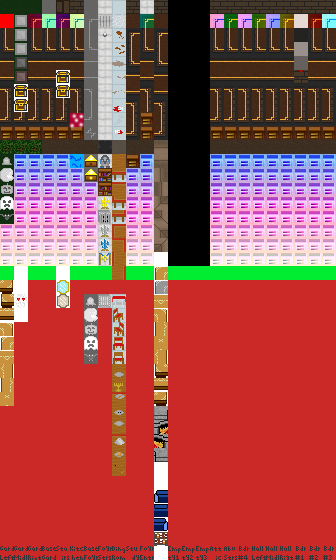
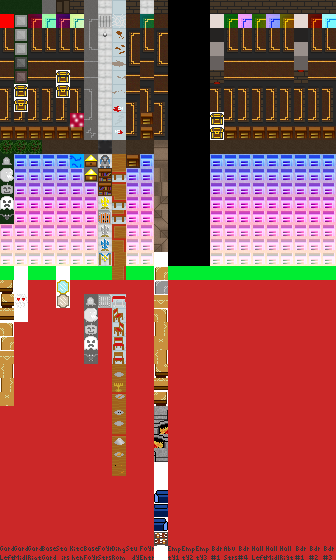
Moved Caspar's puzzle to attic. Create a more complex path. Placed treasure chest art in room.

Changed region(s): [[0.625, 0.0, 0.6845, 0.1518], [0.625, 0.1821, 0.6845, 0.2732], [0.625, 0.9714, 0.6548, 1.0]]

diff --git a/js/World.js b/js/World.js
@@ -108,9 +108,9 @@ var levelGardenRight =
 ];
 
 var levelAttic =
-	[
-		10,10,10,10,10,10,10,0,10,10,10,10,10,10,10,10,10,1,2,1,2,1,5,0,0,1,2,1,2,1,2,10,10,2,1,2,1,2,0,0,0,2,1,2,1,2,1,10,10,1,2,1,2,1,2,1,2,1,2,1,2,1,2,10,10,2,1,2,1,2,1,2,1,2,1,2,1,2,1,10,10,1,2,1,2,1,2,1,2,1,2,1,2,1,2,10,10,2,1,2,1,2,1,2,1,2,1,2,0,0,0,10,10,1,2,1,2,1,2,1,2,1,2,1,0,0,0,10,10,2,1,2,1,2,1,2,1,2,1,2,0,0,9,10,10,10,10,10,10,10,10,10,10,10,10,10,10,10,10,10
-	];
+[
+10, 10, 10, 10, 10, 10, 10, 10, 10, 10, 10, 10, 10, 10, 10, 10, 10, 1, 2, 1, 2, 1, 2, 1, 2, 1, 2, 1, 2, 0, 9, 10, 10, 2, 1, 2, 1, 2, 1, 2, 1, 2, 1, 2, 1, 0, 0, 10, 10, 1, 2, 1, 2, 1, 2, 1, 2, 1, 2, 1, 2, 1, 2, 10, 10, 2, 1, 2, 1, 2, 1, 2, 1, 2, 1, 2, 1, 2, 1, 10, 10, 1, 2, 1, 2, 1, 2, 1, 2, 1, 2, 1, 2, 1, 2, 10, 10, 2, 1, 2, 1, 2, 0, 0, 0, 2, 1, 2, 1, 2, 1, 10, 10, 1, 2, 1, 2, 1, 0, 0, 0, 1, 2, 1, 2, 1, 2, 10, 10, 2, 1, 2, 1, 2, 5, 0, 0, 2, 1, 2, 1, 2, 1, 10, 10, 10, 10, 10, 10, 10, 10, 0, 10, 10, 10, 10, 10, 10, 10, 10
+];
 
 var levelBedroomOne =
 	[ // Bed, Rug, Nightstand
@@ -232,7 +232,7 @@ var roomLayout =
 				//12        13          14
         -1, -1, -1, //No rooms above the garden area
 				//15                16                  17
-	    levelAttic, levelFoyerEntrance /*Should never see this */, levelBedroomFour,
+	    levelAttic, /*Should never see this */, levelBedroomFour,
 			      //18                19              20
         levelHallwayLeft, levelHallwayMiddle, levelHallwayRight,
 				     //21                22             23                       24 - maybe merges shouldn't go here.
@@ -253,6 +253,7 @@ const ROOM_ID_BASEMENT_GARDEN_EXIT = 3;
 const ROOM_ID_BEDROOM1 = 21;
 const ROOM_ID_BEDROOM4 = 17;
 const ROOM_ID_STUDY = 9;
+const ROOM_ID_ATTIC = 15;
 
 
 var roomNames =
@@ -619,7 +620,7 @@ function drawWorld()
                                         drawTileX, drawTileY, // draw tile x coord at drawTileX, draw tile x coord at drawTileY
                                         WORLD_W, WORLD_H, angleOfDoorRotation); // tile width, tile height, angle of rotation
 			} else if (tileTypeIsRoom(currentRoomArtIndex)) {
-				currentRoomArtIndex = bedroom1RoomArtIndexAlter(currentRoomArtIndex, arrayIndex);
+				currentRoomArtIndex = atticRoomArtIndexAlter(currentRoomArtIndex, arrayIndex);
 			    canvasContext.drawImage(roomStrips, WORLD_W * roomArtSet, WORLD_H * currentRoomArtIndex,
 										WORLD_W, WORLD_H,
 										drawTileX, drawTileY,

diff --git a/js/RoomCheck.js b/js/RoomCheck.js
@@ -1,7 +1,7 @@
 var denPuzzleSolved = false;
-var bedroom1PuzzleSolved = false;
-var bedroom1ShowPath = false;
-var bedroom1ValidPath = [];
+var atticPuzzleSolved = false;
+var atticShowPath = false;
+var atticValidPath = [];
 var gardenMiddlePuzzleSolved = false;
 var stairsPuzzleSolved = false;
 var correctOrderOfBooks = [0, 1, 2, 3, 4, 5];
@@ -23,7 +23,7 @@ var searchableTiles =
         -1, -1, -1,
         -1, ITEM_IDX_FLASHLIGHT, -1,
         -1, -1, -1,
-        -1, -1, -1,
+        KEYDOOR_IDX_HOUSEENTRANCE, -1, -1,
         -1, -1, -1,
         -1, -1, -1
     ];
@@ -35,37 +35,38 @@ function checkRoomLogic()
     checkStairs();
     checkGardenMiddle();
     checkFoyerEntrance();
-    checkBedroom1();
+    checkAttic();
     checkStudy();
 }
 
-function enterBedroom1()
+function enterAttic()
 {
-    // @todo generate a valid path from id 55 to 123
-    bedroom1ValidPath = [55, 71, 87, 103, 104, 105, 106, 107, 123];
+    atticValidPath = [133, 132, 116, 100, 99, 83, 67, 68, 69, 70, 71, 72, 73, 57, 41, 25,
+                            26, 27, 43, 59, 75, 91, 107, 108, 124, 125, 126, 110, 94, 78, 62];
 }
 
-function bedroom1RoomArtIndexAlter(tileType, index)
+function atticRoomArtIndexAlter(tileType, index)
 {
-    if (bedroom1ShowPath && bedroom1ValidPath.indexOf(index) >= 0) {
+    if (atticShowPath && atticValidPath.indexOf(index) >= 0) {
         tileType += 2;
     }
     return tileType;
 }
 
-function checkBedroom1()
+function checkAttic()
 {
-    if (roomCoordToIndex() != ROOM_ID_BEDROOM1)
+    if (roomCoordToIndex() != ROOM_ID_ATTIC)
     {
         return;
     }
 
+    searchableTileType = 9;
+
     // @todo if walking on non-path tile, reset to room-start
     var tileIndex = getTileIndexAtPixelCoord(roman.x, roman.y);
-    if ((worldGrid[tileIndex] == 1 || worldGrid[tileIndex] == 2) && bedroom1ValidPath.indexOf(tileIndex) < 0) {
-        postMessage(dialogueBedroom1PuzzleSteppedOffPath);
-        roman.x = 107;
-        roman.y = 14;
+    if ((worldGrid[tileIndex] == 1 || worldGrid[tileIndex] == 2) && atticValidPath.indexOf(tileIndex) < 0) {
+        postMessage(dialogueAtticPuzzleSteppedOffPath);
+        roman.resetBeginningOfRoom();
     }
 }
 

diff --git a/js/Dialogue.js b/js/Dialogue.js
@@ -7,10 +7,10 @@ var dialogueDiningRoomEntered = "There's a key over there! I should be able to g
 var dialogueDenPuzzleNotSolved = "Hint: Top left piece of the table is already in the correct spot.";
 var dialogueDenPuzzleSolved = "How lucky can you get?";
 
-var dialogueBedroom1PuzzleNotSolved = "Hint: Be careful where you walk!";
-var dialogueBedroom1PuzzleShowPath = "Oh look! That is a safe path!";
-var dialogueBedroom1PuzzleSteppedOffPath = "Huh!? What happened? I must've walked on the wrong tiles.";
-var dialogueBedroom1PuzzleSolved = "Dialogue bark for bedroom 1 puzzle solved.";
+var dialogueAtticPuzzleNotSolved = "Hint: Be careful where you walk!";
+var dialogueAtticPuzzleShowPath = "Oh look! That is a safe path!";
+var dialogueAtticPuzzleSteppedOffPath = "Huh!? What happened? I must've walked on the wrong tiles.";
+var dialogueAtticPuzzleSolved = "Dialogue bark for bedroom 1 puzzle solved.";
 
 var dialogueGardenMiddlePuzzleNotSolved = "Dialogue bark for Garden Middle puzzle.";
 var dialogueGardenMiddlePuzzleSolved = "Dialogue bark for Garden Middle puzzle solved.";

diff --git a/js/Main.js b/js/Main.js
@@ -108,12 +108,12 @@ function loadLevel(whichLevelIdx, preservePlayerStart)
 	            postMessage(dialogueDenPuzzleNotSolved);
 	        }
 	        break;
-	    case ROOM_ID_BEDROOM1:
-	        if (bedroom1PuzzleSolved == false)
+	    case ROOM_ID_ATTIC:
+	        if (atticPuzzleSolved == false)
 	        {
-	            postMessage(dialogueBedroom1PuzzleNotSolved);
+	            postMessage(dialogueAtticPuzzleNotSolved);
 	        }
-	        enterBedroom1();
+	        enterAttic();
 	        break;
 	    case ROOM_ID_GARDEN_MIDDLE:
 	        if (gardenMiddlePuzzleSolved == false)

diff --git a/js/Hero.js b/js/Hero.js
@@ -179,11 +179,11 @@ function heroClass()
 		        unmergeRooms();
 		    }
 		}
-		else if (roomIndex == ROOM_ID_BEDROOM1) {
-			bedroom1ShowPath = (walkIntoTileType == TILE_SHOW_PATH);
+		else if (roomIndex == ROOM_ID_ATTIC) {
+			atticShowPath = (walkIntoTileType == TILE_SHOW_PATH);
 
-			if (bedroom1ShowPath) {
-				postMessage(dialogueBedroom1PuzzleShowPath);
+			if (atticShowPath) {
+				postMessage(dialogueAtticPuzzleShowPath);
 			}
 		}
 
